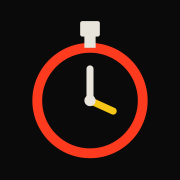
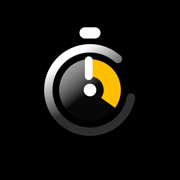
Новая иконка приложения
Иконка заменена на новую отрисовку секундомера. Знак укладывается
в maskable-зону (радиус 180 из допустимых 205 при 512px), поэтому
192 и 512 объявлены как "any maskable" — отдельный maskable-файл
больше не нужен.

Для favicon сделан отдельный кадрированный вариант: в исходнике
знак занимает ~60% холста и на 32px превращался в кашу.

Старые SVG-иконки удалены — они остались от прежней отрисовки
и расходились с новой.

Changed region(s): [[0.1667, 0.1111, 0.8333, 0.8889]]

diff --git a/sw.js b/sw.js
@@ -1,16 +1,16 @@
 // Bump on every asset change — this is what triggers reinstall and drops the old cache.
-const CACHE = 'interval-timer-v4';
+const CACHE = 'interval-timer-v5';
 const ASSETS = [
   './',
   './index.html',
   './styles.css',
   './app.js',
   './manifest.webmanifest',
-  './icon.svg',
+  './icon-32.png',
+  './icon-64.png',
   './icon-180.png',
   './icon-192.png',
-  './icon-512.png',
-  './icon-maskable-512.png'
+  './icon-512.png'
 ];
 
 self.addEventListener('install', (e) => {

diff --git a/index.html b/index.html
@@ -7,7 +7,8 @@
 <meta name="description" content="Интервальный таймер для тренировок со скакалкой: работа, отдых, раунды.">
 <title>Интервальный таймер</title>
 <link rel="manifest" href="manifest.webmanifest">
-<link rel="icon" href="icon.svg" type="image/svg+xml">
+<link rel="icon" href="icon-32.png" sizes="32x32" type="image/png">
+<link rel="icon" href="icon-64.png" sizes="64x64" type="image/png">
 <link rel="apple-touch-icon" href="icon-180.png">
 <meta name="apple-mobile-web-app-capable" content="yes">
 <meta name="apple-mobile-web-app-status-bar-style" content="black-translucent">

diff --git a/README.md b/README.md
@@ -23,9 +23,9 @@ styles.css            # стили
 app.js                # логика таймера
 manifest.webmanifest  # манифест PWA
 sw.js                 # service worker (офлайн-кэш)
-icon.svg              # иконка (вектор, вкладка браузера)
-icon-maskable.svg     # исходник maskable-иконки с отступами
-icon-*.png            # иконки для установки: 180 (iOS), 192, 512, maskable 512
+icon-32/64.png        # favicon (кадрирован по знаку — мелкий размер)
+icon-180.png          # иконка для iOS (apple-touch-icon)
+icon-192/512.png      # иконки манифеста, any + maskable
 ```
 
 ## Локальный запуск